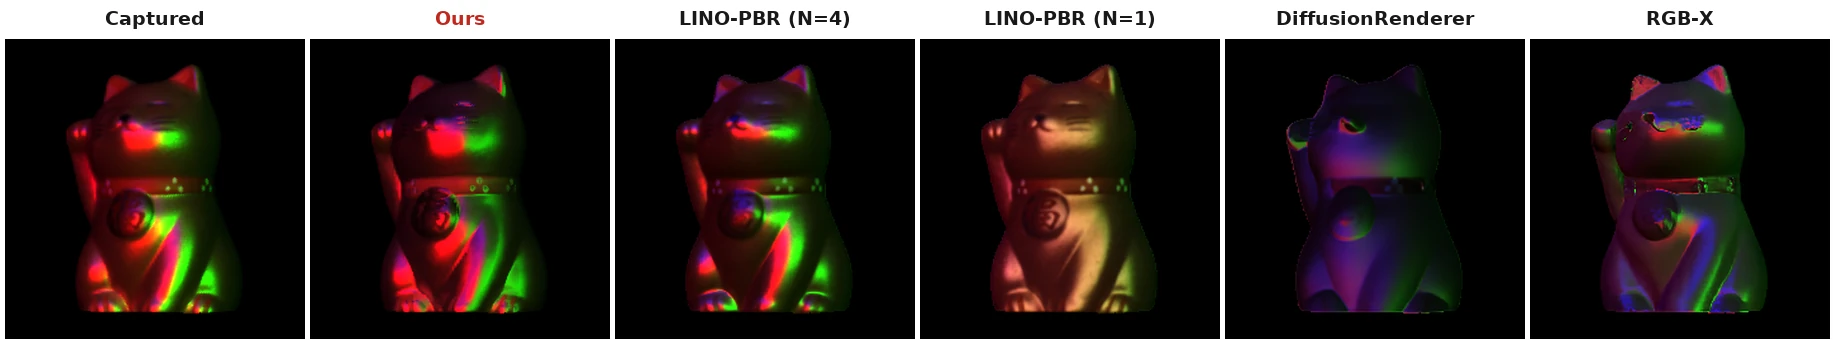
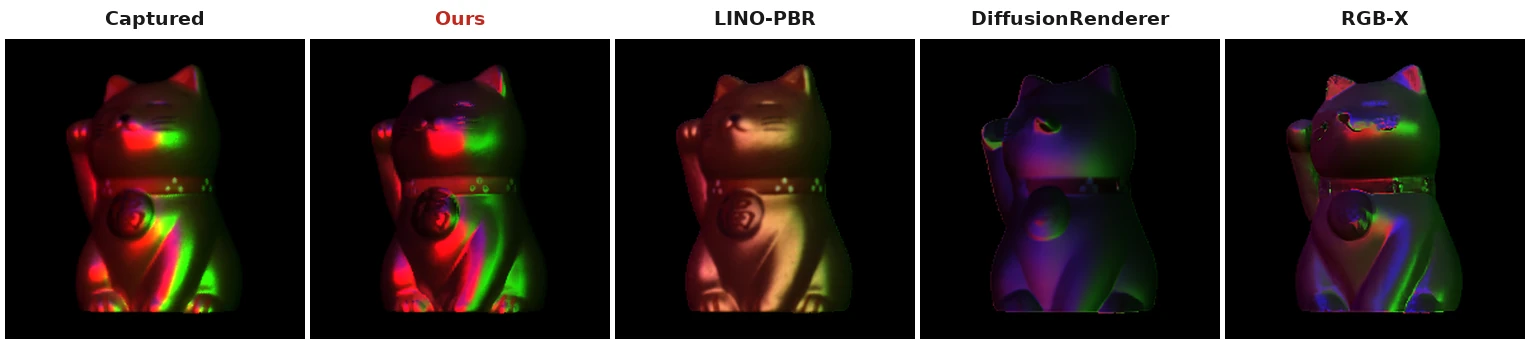
Transpose the comparison, fix the light, widen the environment grid
The interactive relighting had the wrong light geometry: it used a directional
light on a sphere around the origin, while Principled_BRDF treats the light as
a position, orbiting (0, -0.29, 0) with the shaded point at (0, 0, 0.5) and the
incident direction's y and z flipped. The diffuse lobe was also missing the
Disney retro-reflection term. Both are fixed, and the shader now matches
render_relight.py on scene29 to 4/255 max, 0.01/255 mean, at four angles.
Aluminium foil joins the scene list.

Comparison panel: modalities down the rows, methods across the columns, with
each method's own preprocessed input as the first row. LINO-PBR keeps only the
single-shot variant, here and in the relighting strip. Height is fixed across
scenes; width follows the object.

Environment grid: 13 objects, dropping the orange cat, the fruit and the oval
metal piece, with the two dinosaurs last and the owl statue, buddha, knife and
brachiosaurus first. All sixteen environments used so far now appear, eight per
page, and the mirror ball moves to the top-right corner.

diff --git a/index.html b/index.html
@@ -11,13 +11,13 @@
   <link href="https://fonts.googleapis.com/css?family=Google+Sans|Noto+Sans|Castoro"
         rel="stylesheet">
 
-  <link rel="stylesheet" href="./static/css/bulma.min.css?v=3">
+  <link rel="stylesheet" href="./static/css/bulma.min.css?v=4">
   <link rel="stylesheet" href="https://cdnjs.cloudflare.com/ajax/libs/font-awesome/5.15.3/css/all.min.css" />
-  <link rel="stylesheet" href="./static/css/index.css?v=3">
+  <link rel="stylesheet" href="./static/css/index.css?v=4">
 
-  <script defer src="./static/js/fontawesome.all.min.js?v=3"></script>
-  <script defer src="./static/js/index.js?v=3"></script>
-  <script defer src="./static/js/relight.js?v=3"></script>
+  <script defer src="./static/js/fontawesome.all.min.js?v=4"></script>
+  <script defer src="./static/js/index.js?v=4"></script>
+  <script defer src="./static/js/relight.js?v=4"></script>
 </head>
 <body>
 
@@ -84,7 +84,7 @@
 <section class="hero teaser">
   <div class="container is-max-desktop">
     <div class="hero-body">
-      <div class="figure-frame"><img src="./static/image/teaser.webp?v=3" alt="Teaser"></div>
+      <div class="figure-frame"><img src="./static/image/teaser.webp?v=4" alt="Teaser"></div>
     </div>
   </div>
 </section>
@@ -105,7 +105,7 @@
   <!-- ===================== Results ===================== -->
   <h2>Results</h2>
   <ul class="tight">
-    <li>Baselines get white-illumination input, since they do not assume spectral multiplexing.</li>
+    <li>Each column shows a method's own input: ours is the single RGB-pattern shot, the baselines get white illumination.</li>
     <li>The relighting row uses a display pattern held out from training.</li>
   </ul>
 
@@ -121,10 +121,10 @@
     </div>
 
     <p class="panel-title">Estimated PBR maps</p>
-    <div class="figure-frame"><img id="resPbr" src="./static/image/results/scene29_pbr.webp?v=3" alt="Estimated PBR maps"></div>
+    <div class="figure-frame"><img id="resPbr" src="./static/image/results/scene29_pbr.webp?v=4" alt="Estimated PBR maps"></div>
 
     <p class="panel-title">Relighting under a held-out display pattern</p>
-    <div class="figure-frame"><img id="resRelight" src="./static/image/results/scene29_relight.webp?v=3" alt="Relighting comparison"></div>
+    <div class="figure-frame"><img id="resRelight" src="./static/image/results/scene29_relight.webp?v=4" alt="Relighting comparison"></div>
   </div>
 
   <h3 class="table-heading">Synthetic benchmark</h3>
@@ -176,6 +176,7 @@
   <h2>Move the light</h2>
   <ul class="tight">
     <li>Shaded live in your browser from the estimated maps &mdash; drag the image or the slider.</li>
+    <li>Same point-light orbit and BRDF as our offline renderer, plus a dim camera-side fill.</li>
   </ul>
 
   <div class="relight-panel" id="relightPanel">
@@ -205,7 +206,7 @@
         <span class="icon"><i class="fas fa-chevron-right"></i></span>
       </button>
     </div>
-    <div class="figure-frame"><img id="envImg" src="./static/image/envgrid/page1.webp?v=3" alt="Environment relighting grid"></div>
+    <div class="figure-frame"><img id="envImg" src="./static/image/envgrid/page1.webp?v=4" alt="Environment relighting grid"></div>
   </div>
 
   <!-- ===================== Dynamic scenes ===================== -->
@@ -238,7 +239,7 @@
     <li>A quarter-wave plate on the lens trades <em>S</em><sub>2</sub> for <em>S</em><sub>3</sub>, making circular polarization measurable.</li>
     <li>Per channel: unpolarized = <em>S</em><sub>0</sub>&minus;<em>S</em><sub>1</sub>, LP = &minus;<em>S</em><sub>1</sub>, CP = <em>S</em><sub>3</sub>/<em>S</em><sub>0</sub>.</li>
   </ul>
-  <div class="figure-frame"><img src="./static/image/imaging_system.webp?v=3" alt="Display-camera imaging system"></div>
+  <div class="figure-frame"><img src="./static/image/imaging_system.webp?v=4" alt="Display-camera imaging system"></div>
 
   <!-- ===================== Method ===================== -->
   <h2>Feed-forward inverse rendering</h2>
@@ -247,7 +248,7 @@
     <li>Attention alternates over space, spectral channel, polarization state and frames.</li>
     <li>One forward pass &rarr; normal, albedo, roughness, metallicity.</li>
   </ul>
-  <div class="figure-frame"><img src="./static/image/overview.webp?v=3" alt="Network overview"></div>
+  <div class="figure-frame"><img src="./static/image/overview.webp?v=4" alt="Network overview"></div>
 
   <!-- ===================== Dataset ===================== -->
   <h2>Expanded pBRDF dataset</h2>
@@ -258,10 +259,10 @@
   </ul>
   <div class="columns is-centered">
     <div class="column is-three-fifths">
-      <div class="figure-frame"><img src="./static/image/expand_data.webp?v=3" alt="pBRDF expansion pipeline"></div>
+      <div class="figure-frame"><img src="./static/image/expand_data.webp?v=4" alt="pBRDF expansion pipeline"></div>
     </div>
   </div>
-  <div class="figure-frame"><img src="./static/image/pbrdf_expansion.webp?v=3" alt="Synthesized pBRDF instances"></div>
+  <div class="figure-frame"><img src="./static/image/pbrdf_expansion.webp?v=4" alt="Synthesized pBRDF instances"></div>
 
   <!-- ===================== Citation ===================== -->
   <h2 id="citation">Citation</h2>

diff --git a/static/js/relight.js b/static/js/relight.js
@@ -8,19 +8,24 @@
 (function () {
   'use strict';
 
-  var ASSET_V = '?v=3';
+  var ASSET_V = '?v=4';
 
   var SCENES = [
     { label: 'Cat', key: 'scene29' },
     { label: 'Bowl', key: 'scene41' },
     { label: 'Case', key: 'scene152' },
+    { label: 'Foil', key: 'scene130' },
     { label: 'Owl', key: 'scene1' }
   ];
 
-  // The light stays on one orbit; only its azimuth is exposed to the reader.
-  var ELEVATION_DEG = 25;
-  var GAIN = 2.6;
-  var FILL = 0.3;
+  // Same point-light orbit as render_relight.py: the light circles at radius
+  // ORBIT_R about (0, ORBIT_CY, 0) while the shaded point sits at (0, 0, 0.5),
+  // and Principled_BRDF flips the y and z axes of the incident direction.
+  var ORBIT_R = 0.4;
+  var ORBIT_CY = -0.29;
+  var POINT_Z = 0.5;
+  var GAIN = 50.0;                       // render_relight.py --brightness 50
+  var FILL = 0.2;                        // dim camera-side fill, not in the paper
 
   var VERT = [
     'attribute vec2 a_pos;',
@@ -52,19 +57,24 @@
     '  return 1.0 / max(ndotx + sqrt(a2 + (1.0 - a2) * ndotx * ndotx), 1e-7);',
     '}',
     '',
+    // Mirrors Principled_BRDF.forward: Disney retro-reflective diffuse, GGX
+    // specular, Schlick Fresnel, and the renderer's own 0.12 output scale.
     'vec3 shade(vec3 l, vec3 n, vec3 albedo, float rough, float metal) {',
     '  vec3 v = vec3(0.0, 0.0, 1.0);',
     '  vec3 h = normalize(l + v);',
-    '  float ndotl = max(dot(n, l), 0.0);',
-    '  float ndotv = max(dot(n, v), 1e-4);',
-    '  float ndoth = max(dot(n, h), 0.0);',
-    '  float ldoth = max(dot(l, h), 0.0);',
+    '  float ndotl = clamp(dot(n, l), 0.0, 1.0);',
+    '  float ndotv = clamp(dot(n, v), 1e-4, 1.0);',
+    '  float ndoth = clamp(dot(n, h), 0.0, 1.0);',
+    '  float ldoth = clamp(dot(l, h), 0.0, 1.0);',
     '  float a = rough * rough;',
     '  vec3 f0 = vec3(0.08) * (1.0 - metal) + albedo * metal;',
     '  vec3 fres = f0 + (1.0 - f0) * pow(1.0 - ldoth, 5.0);',
     '  vec3 spec = fres * ggx(ndoth, a) * smithG(ndotl, a) * smithG(ndotv, a);',
-    '  vec3 diff = (1.0 - metal) * albedo / PI;',
-    '  return (diff + spec) * ndotl;',
+    '  float fd90 = 0.5 + 2.0 * ldoth * ldoth * rough;',
+    '  float fd = (1.0 + (fd90 - 1.0) * pow(1.0 - ndotl, 5.0)) *',
+    '             (1.0 + (fd90 - 1.0) * pow(1.0 - ndotv, 5.0));',
+    '  vec3 diff = (1.0 - metal) * (albedo / PI) * fd;',
+    '  return (diff + spec) * ndotl * 0.12;',
     '}',
     '',
     'void main() {',
@@ -74,7 +84,7 @@
     '',
     '  vec3 albedo = texture2D(u_albedo, v_uv).rgb;',
     '  vec3 n = normalize(texture2D(u_normal, v_uv).rgb * 2.0 - 1.0);',
-    '  float rough = clamp(mat.r, 0.05, 1.0);',
+    '  float rough = clamp(mat.r, 0.02, 1.0);',
     '  float metal = clamp(mat.g, 0.0, 1.0);',
     '',
     '  // key light on the orbit, plus a dim fill from the camera so the',
@@ -164,13 +174,18 @@
       if (fallback) fallback.hidden = false;
       return;
     }
-    var el = ELEVATION_DEG * Math.PI / 180;
-    var cosEl = Math.cos(el);
-    var sinEl = Math.max(Math.sin(el), 0.05);
+
+    function lightDir(thetaRad) {
+      var dx = ORBIT_R * Math.cos(thetaRad);
+      var dy = ORBIT_CY + ORBIT_R * Math.sin(thetaRad);
+      var dz = -POINT_Z;
+      var n = Math.sqrt(dx*dx + dy*dy + dz*dz);
+      return [dx / n, -dy / n, -dz / n];   // y, z flipped, as the renderer does
+    }
 
     function draw() {
-      var az = (parseFloat(angleEl.value) || 0) * Math.PI / 180;
-      gl.uniform3f(uLight, Math.cos(az) * cosEl, Math.sin(az) * cosEl, sinEl);
+      var l = lightDir((parseFloat(angleEl.value) || 0) * Math.PI / 180);
+      gl.uniform3f(uLight, l[0], l[1], l[2]);
       gl.uniform1f(uGain, GAIN);
       gl.uniform1f(uFill, FILL);
       gl.viewport(0, 0, canvas.width, canvas.height);

diff --git a/static/js/index.js b/static/js/index.js
@@ -66,7 +66,7 @@
     });
   }
 
-  var ASSET_V = '?v=3';
+  var ASSET_V = '?v=4';
 
   var SCENES = [
     { label: 'Cat', key: 'scene29' },
@@ -91,7 +91,7 @@
     makeViewer({
       tabs: 'envTabs', prev: 'envPrev', next: 'envNext',
       targets: { img: 'envImg' },
-      items: [1, 2, 3, 4].map(function (n) {
+      items: [1, 2, 3, 4, 5, 6].map(function (n) {
         return { label: 'Set ' + n, img: './static/image/envgrid/page' + n + '.webp' };
       })
     });

diff --git a/README.md b/README.md
@@ -32,37 +32,39 @@ Settings → Pages → *Deploy from a branch* → branch `project_page`, folder 
 ## Figures and interactive parts
 
 Paper figures (teaser, imaging system, network overview, pBRDF expansion) are
-rasterized from `figures/*.pdf` in the ACM submission bundle with PyMuPDF at
-about twice their display width and saved as WebP.
+rasterized from `figures/*.pdf` in the ACM submission bundle with PyMuPDF.
 
-Everything in Results, Move the light and Environment lighting is built from
-inference output. Demo scenes are `scene29` (cat), `scene41` (bowl), `scene152`
-(aluminium case) and `scene1` (owl).
+Everything else is built from inference output. Every local asset URL carries a
+`?v=N` tag, set in `index.html` and in `ASSET_V` in both scripts; bump it
+whenever an asset changes, or browsers and the Pages CDN keep serving the old
+file under the same name.
 
 | Asset | Built from |
 |---|---|
-| `image/results/<scene>_input.webp` | `pattern_main_hdr_rgb.npy`, tone-mapped at the 99th percentile |
-| `image/results/<scene>_pbr.webp` | five methods x four maps; source paths below |
+| `image/results/<scene>_pbr.webp` | modalities down the rows, methods across; row 0 is each method's own preprocessed input. Fixed height, width follows the object |
 | `image/results/<scene>_relight.webp` | `PDIR/outputs/render_12pat_5method_bright_crop`, pattern `AntiDiag` |
-| `image/envgrid/page*.webp` | 16 objects x 5 environments rendered with `PDIR/scripts/make_videos_envmap.py` helpers at `fg_gain=2.7`, mirror balls from `render_env_3scene_5method_xflip/_chromeballs` |
-| `webgl/<scene>_{albedo,normal,mat}.png` | `inference.py` output; `mat` packs roughness, metallicity and mask into R, G, B |
+| `image/envgrid/page*.webp` | 13 objects x 16 environments, `fg_gain=2.7`, mirror ball top-right from `render_env_3scene_5method_xflip/_chromeballs` |
+| `webgl/<scene>_{albedo,normal,mat}.png` | `pipeline_vanila_valid_final` maps; `mat` packs roughness, metallicity and mask into R, G, B |
 
-Per-method PBR maps for the comparison panel (the same paths
-`lino_pbr/build_comparison_grid.py` uses, with `<safe>` = `<prefix>__<scene>`):
+Per-method sources (`<safe>` = `<prefix>__<scene>`):
 
 ```
-Ours      SIGGA2026/PDIR/outputs/pipeline_vanila_valid_final/<scene>/{normal,albedo,roughness,metallic}.png
-LINO N=4  SIGGA2026/lino_pbr/outputs/pdir_real_four/<safe>/{normal,basecolor,roughness,metallic}.png
-LINO N=1  SIGGA2026/lino_pbr/outputs/pdir_real_avg/<safe>/...
-DR        SIGGA2026/diffusion-renderer/output_real_valid_white_masked/<safe>/0000.0000.{normal,basecolor,roughness,metallic}.png
-RGB-X     SIGGA2026/rgbx/rgbx_dataset/output_rgbx_real_valid_white/<safe>/{normal,albedo,roughness,metallic}.png
+Ours    input  pattern_main_hdr_rgb.npy (the raw snapshot)
+        maps   SIGGA2026/PDIR/outputs/pipeline_vanila_valid_final/<scene>/
+LINO    input  SIGGA2026/lino_pbr/outputs/pdir_real_avg/<safe>/input_avg.png
+        maps   same directory, basecolor.png for albedo
+DR      input  SIGGA2026/diffusion-renderer/input_real_valid_white_masked/<safe>/frame_00000.png
+        maps   SIGGA2026/diffusion-renderer/output_real_valid_white_masked/<safe>/0000.0000.*
+RGB-X   input  SIGGA2026/rgbx/rgbx_dataset/input_real_valid_white/<safe>/frame_00000.png
+        maps   SIGGA2026/rgbx/rgbx_dataset/output_rgbx_real_valid_white/<safe>/
 ```
 
-`static/js/relight.js` shades the WebGL textures with the paper's principled
-BRDF (GGX + Smith + Schlick, `F0 = 0.08(1-m) + albedo*m`), lit by one orbiting
-key light at a fixed elevation plus a dim camera-side fill. Only the azimuth is
-exposed to the reader; the stage is capped at 340 px so the 384 px maps are
-never shown much above native resolution.
+`static/js/relight.js` reproduces `Principled_BRDF.forward`: the light circles
+at radius 0.4 about (0, -0.29, 0) while the shaded point sits at (0, 0, 0.5),
+the incident direction has its y and z flipped, and the diffuse lobe carries the
+Disney retro-reflection term. Checked against `render_relight.py` on scene29 at
+four angles: max 4/255, mean 0.01/255. A dim camera-side fill (0.2) is added on
+top so the shadowed side stays readable; that part is not in the paper.
 
 Table numbers are transcribed from the paper (Tables 1 and 2 in `7_results.tex`).
 Column headers carry `data-dir="higher"`/`"lower"`, and `static/js/index.js`
